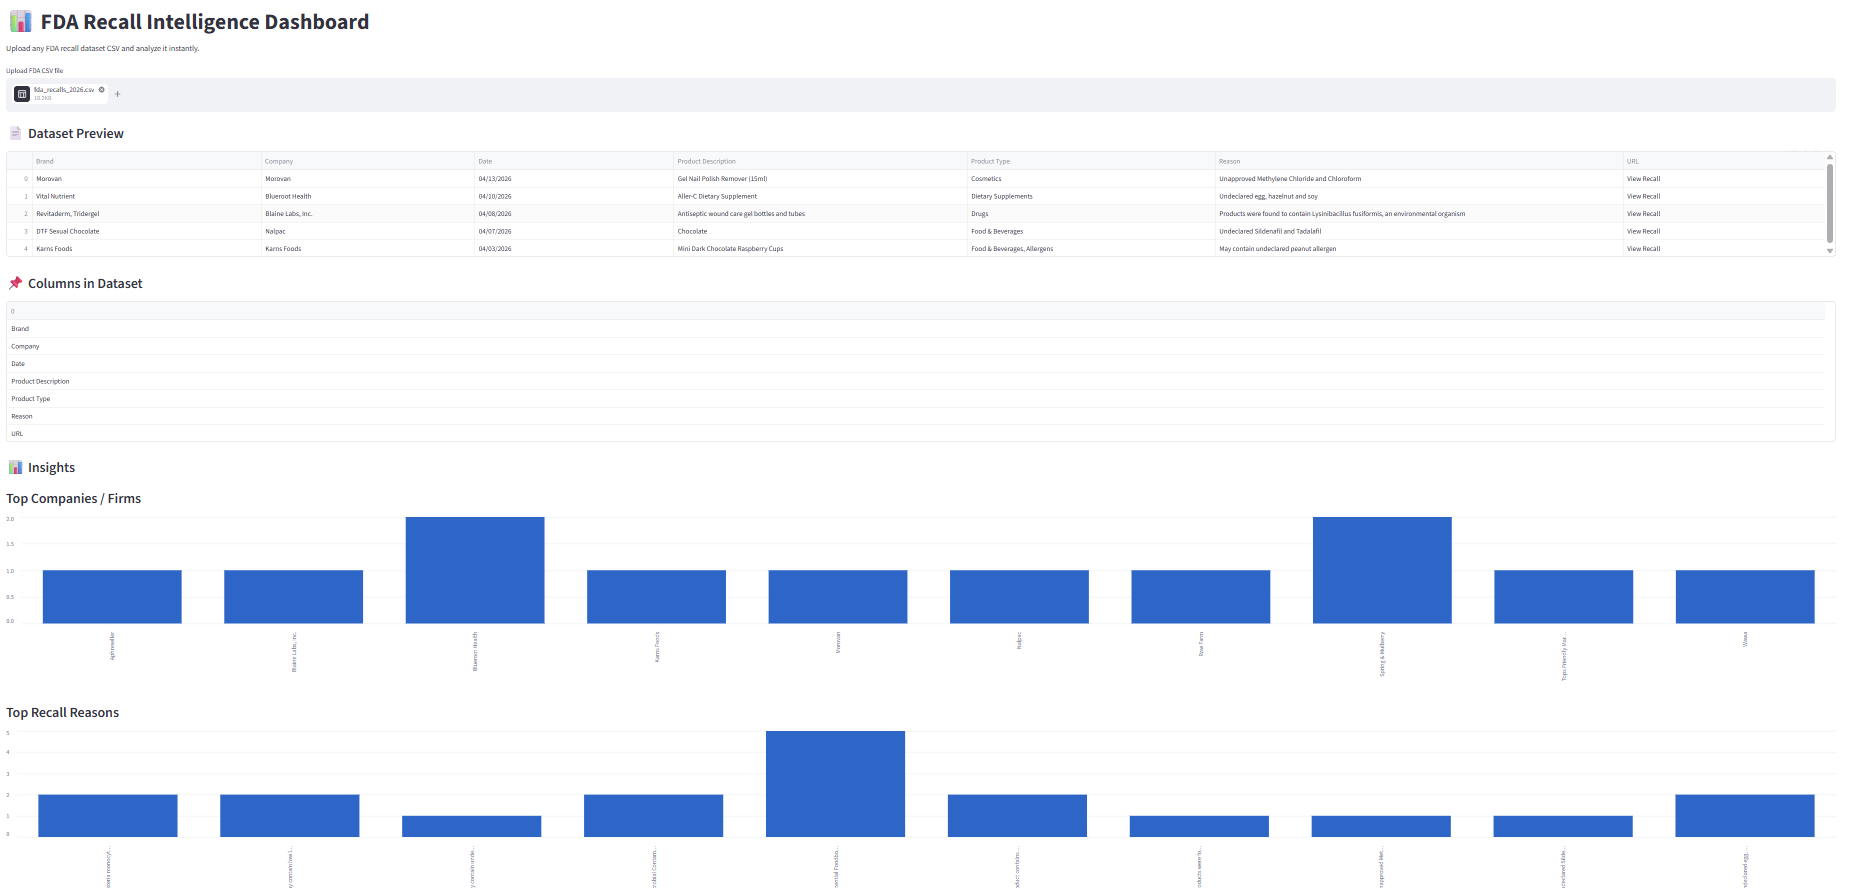
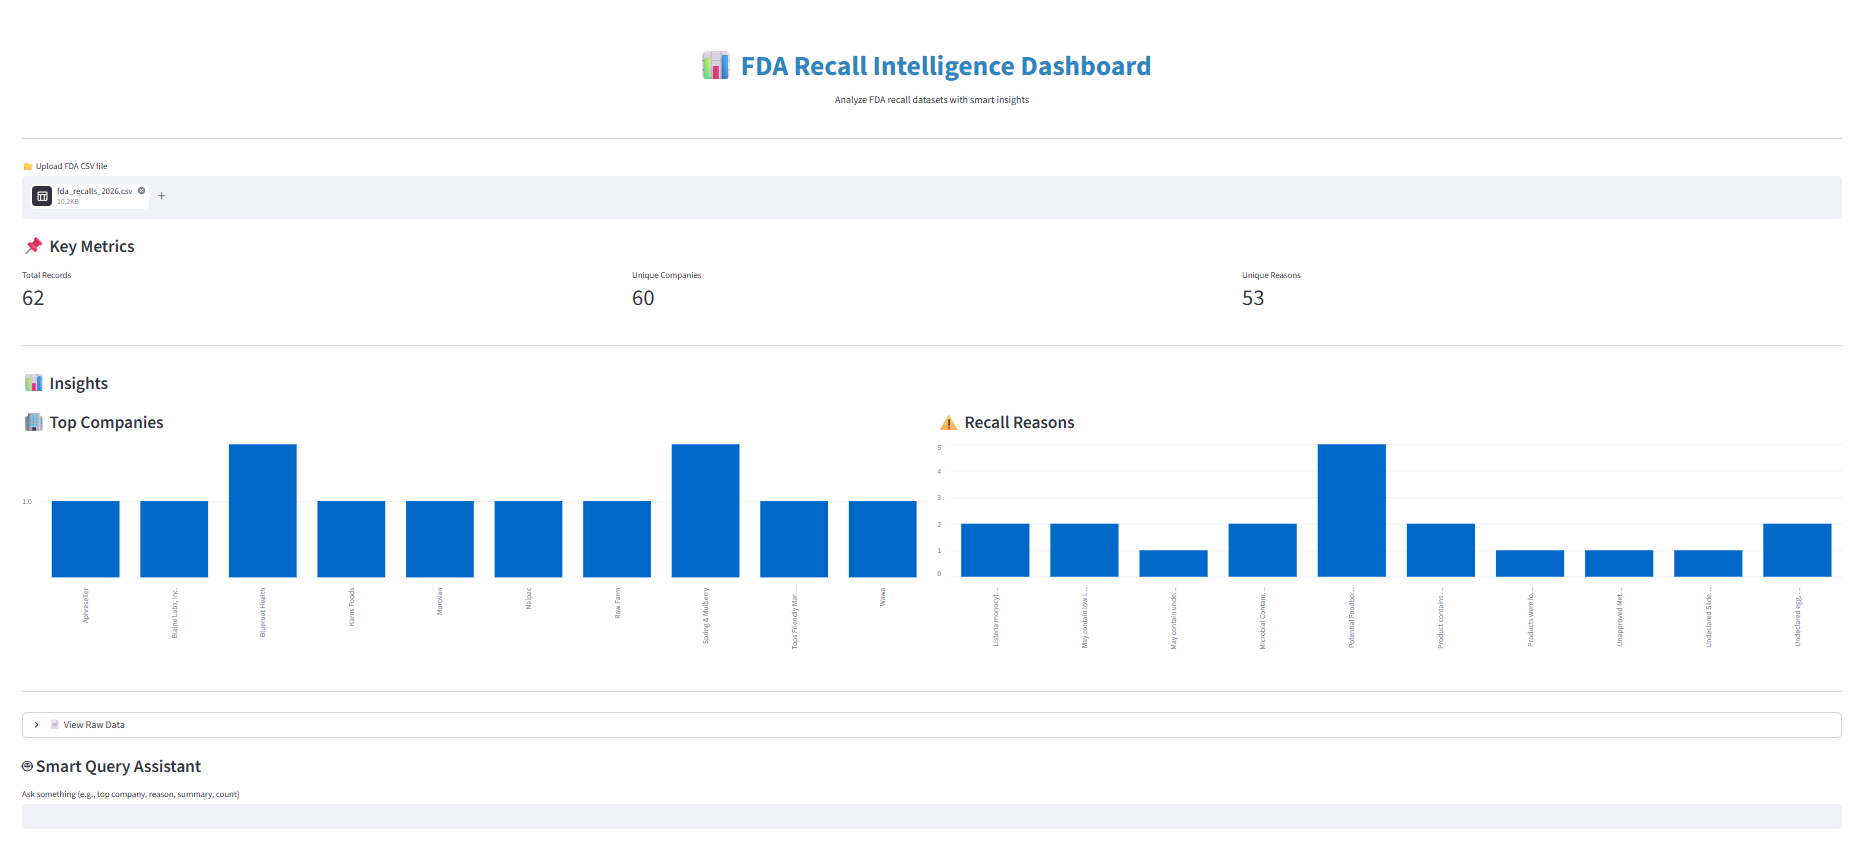
Improved UI design

diff --git a/app.py b/app.py
@@ -1,28 +1,39 @@
 import pandas as pd
 import streamlit as st
 
-# Page setup
-st.set_page_config(page_title="FDA Recall Dashboard", layout="wide")
+# -------------------------
+# PAGE CONFIG
+# -------------------------
+st.set_page_config(
+    page_title="FDA Recall Dashboard",
+    layout="wide",
+    page_icon="📊"
+)
 
-st.title("📊 FDA Recall Intelligence Dashboard")
-st.write("Upload any FDA recall dataset CSV and analyze it instantly.")
+# -------------------------
+# HEADER
+# -------------------------
+st.markdown(
+    """
+    <h1 style='text-align: center; color: #2E86C1;'>📊 FDA Recall Intelligence Dashboard</h1>
+    <p style='text-align: center;'>Analyze FDA recall datasets with smart insights</p>
+    """,
+    unsafe_allow_html=True
+)
 
-# Upload file
-uploaded_file = st.file_uploader("Upload FDA CSV file", type=["csv"])
+st.markdown("---")
+
+# -------------------------
+# FILE UPLOAD
+# -------------------------
+uploaded_file = st.file_uploader("📂 Upload FDA CSV file", type=["csv"])
 
 if uploaded_file:
     df = pd.read_csv(uploaded_file)
 
-    st.subheader("📄 Dataset Preview")
-    st.write(df.head())
-
-    st.subheader("📌 Columns in Dataset")
-    st.write(df.columns)
-
-    # ---------------------------
-    # FIND RELEVANT COLUMNS SAFELY
-    # ---------------------------
-
+    # -------------------------
+    # COLUMN DETECTION
+    # -------------------------
     company_col = None
     reason_col = None
 
@@ -35,28 +46,59 @@ if uploaded_file:
         if not reason_col and "reason" in col_lower:
             reason_col = col
 
-    # ---------------------------
-    # INSIGHTS
-    # ---------------------------
+    # -------------------------
+    # METRICS (TOP KPIs)
+    # -------------------------
+    st.subheader("📌 Key Metrics")
 
-    st.subheader("📊 Insights")
+    col1, col2, col3 = st.columns(3)
+
+    col1.metric("Total Records", len(df))
 
     if company_col:
-        st.write("### Top Companies / Firms")
-        st.bar_chart(df[company_col].value_counts().head(10))
+        col2.metric("Unique Companies", df[company_col].nunique())
     else:
-        st.warning("No company/firm column found")
+        col2.metric("Unique Companies", "N/A")
 
     if reason_col:
-        st.write("### Top Recall Reasons")
-        st.bar_chart(df[reason_col].value_counts().head(10))
+        col3.metric("Unique Reasons", df[reason_col].nunique())
     else:
-        st.warning("No reason column found")
+        col3.metric("Unique Reasons", "N/A")
 
-    # ---------------------------
-    # SMART CHATBOT (NO API)
-    # ---------------------------
+    st.markdown("---")
 
+    # -------------------------
+    # CHARTS (SIDE BY SIDE)
+    # -------------------------
+    st.subheader("📊 Insights")
+
+    col1, col2 = st.columns(2)
+
+    if company_col:
+        with col1:
+            st.markdown("### 🏢 Top Companies")
+            st.bar_chart(df[company_col].value_counts().head(10))
+    else:
+        col1.warning("No company column found")
+
+    if reason_col:
+        with col2:
+            st.markdown("### ⚠ Recall Reasons")
+            st.bar_chart(df[reason_col].value_counts().head(10))
+    else:
+        col2.warning("No reason column found")
+
+    st.markdown("---")
+
+    # -------------------------
+    # DATA PREVIEW (EXPANDABLE)
+    # -------------------------
+    with st.expander("📄 View Raw Data"):
+        st.dataframe(df)
+
+    # -------------------------
+    # SMART QUERY ASSISTANT
+    # -------------------------
     st.subheader("🤖 Smart Query Assistant")
 
     q = st.text_input("Ask something (e.g., top company, reason, summary, count)")
@@ -64,42 +106,34 @@ if uploaded_file:
     if q:
         q = q.lower()
 
-        # Count
         if "count" in q:
             st.success(f"Total records: {len(df)}")
 
-        # Top companies
         elif "company" in q or "firm" in q or "top" in q:
             if company_col:
                 st.write(df[company_col].value_counts().head(10))
             else:
-                st.error("No company column found in dataset")
+                st.error("No company column found")
 
-        # Reasons
         elif "reason" in q:
             if reason_col:
                 st.write(df[reason_col].value_counts().head(10))
             else:
-                st.error("No reason column found in dataset")
+                st.error("No reason column found")
 
-        # Summary
         elif "summary" in q:
-            summary_text = ""
-
             if company_col and reason_col:
                 top_company = df[company_col].value_counts().idxmax()
                 top_reason = df[reason_col].value_counts().idxmax()
 
-                summary_text = f"""
-                📌 Summary of Dataset:
+                st.info(f"""
+                📌 Summary:
                 - Total records: {len(df)}
-                - Most active company: {top_company}
-                - Most common issue: {top_reason}
-                """
+                - Top company: {top_company}
+                - Top issue: {top_reason}
+                """)
             else:
-                summary_text = "Dataset does not have expected columns for summary."
-
-            st.info(summary_text)
+                st.warning("Not enough data for summary")
 
         else:
             st.warning("Try: top company, reason, summary, or count")
